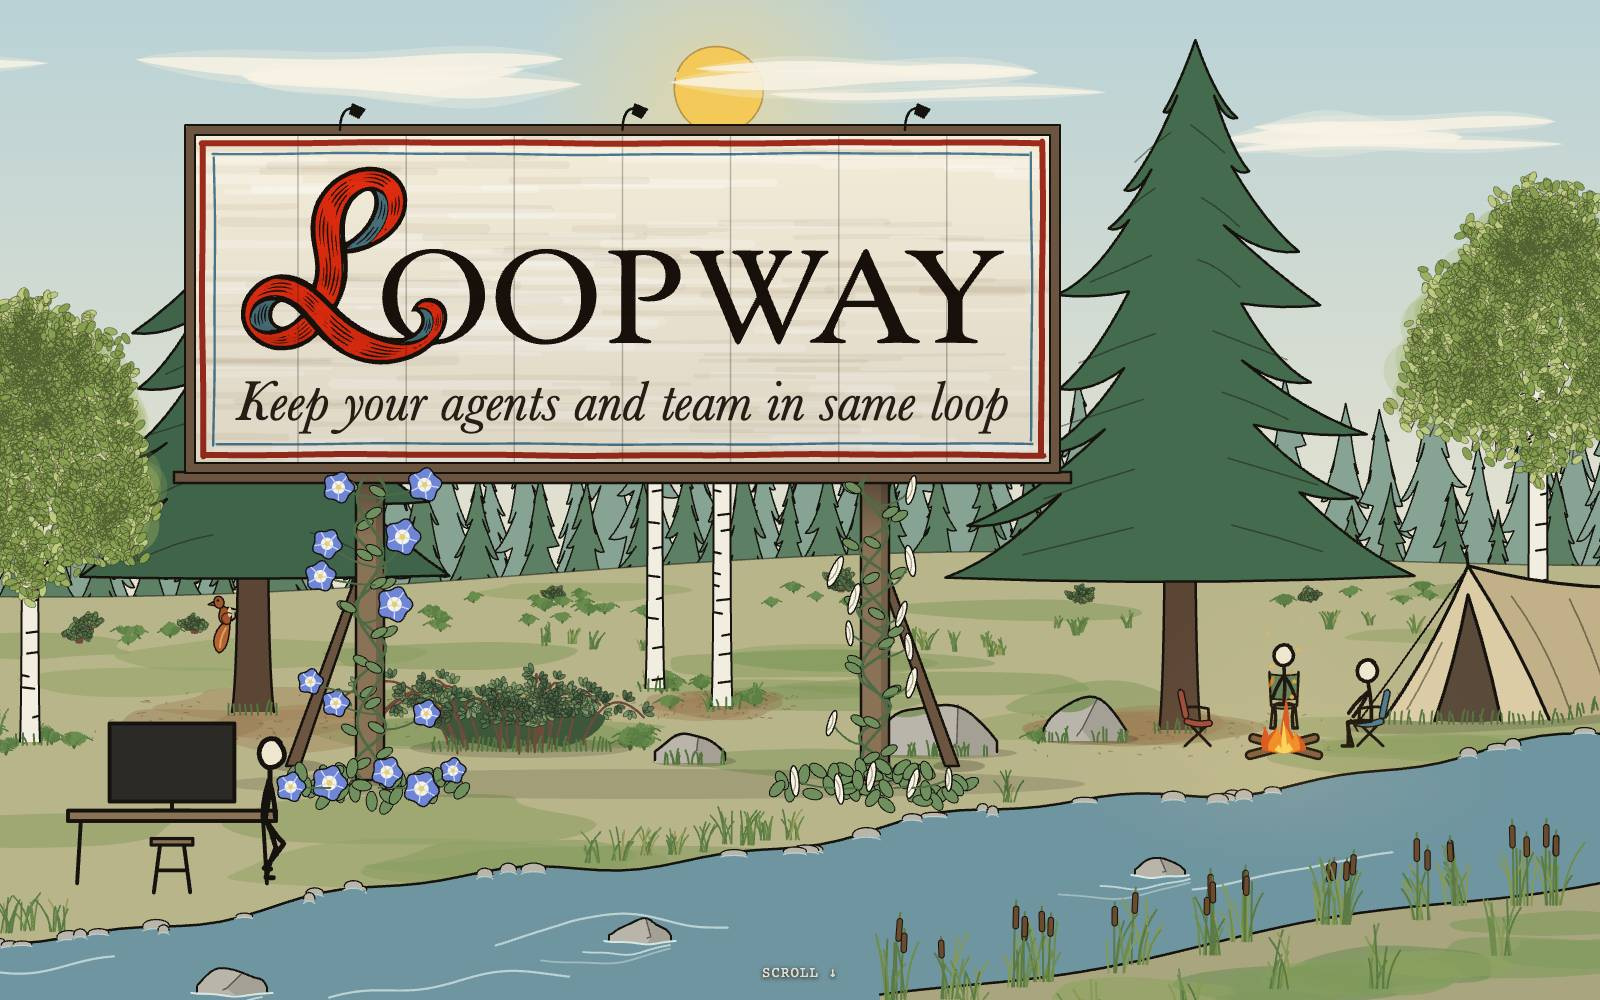
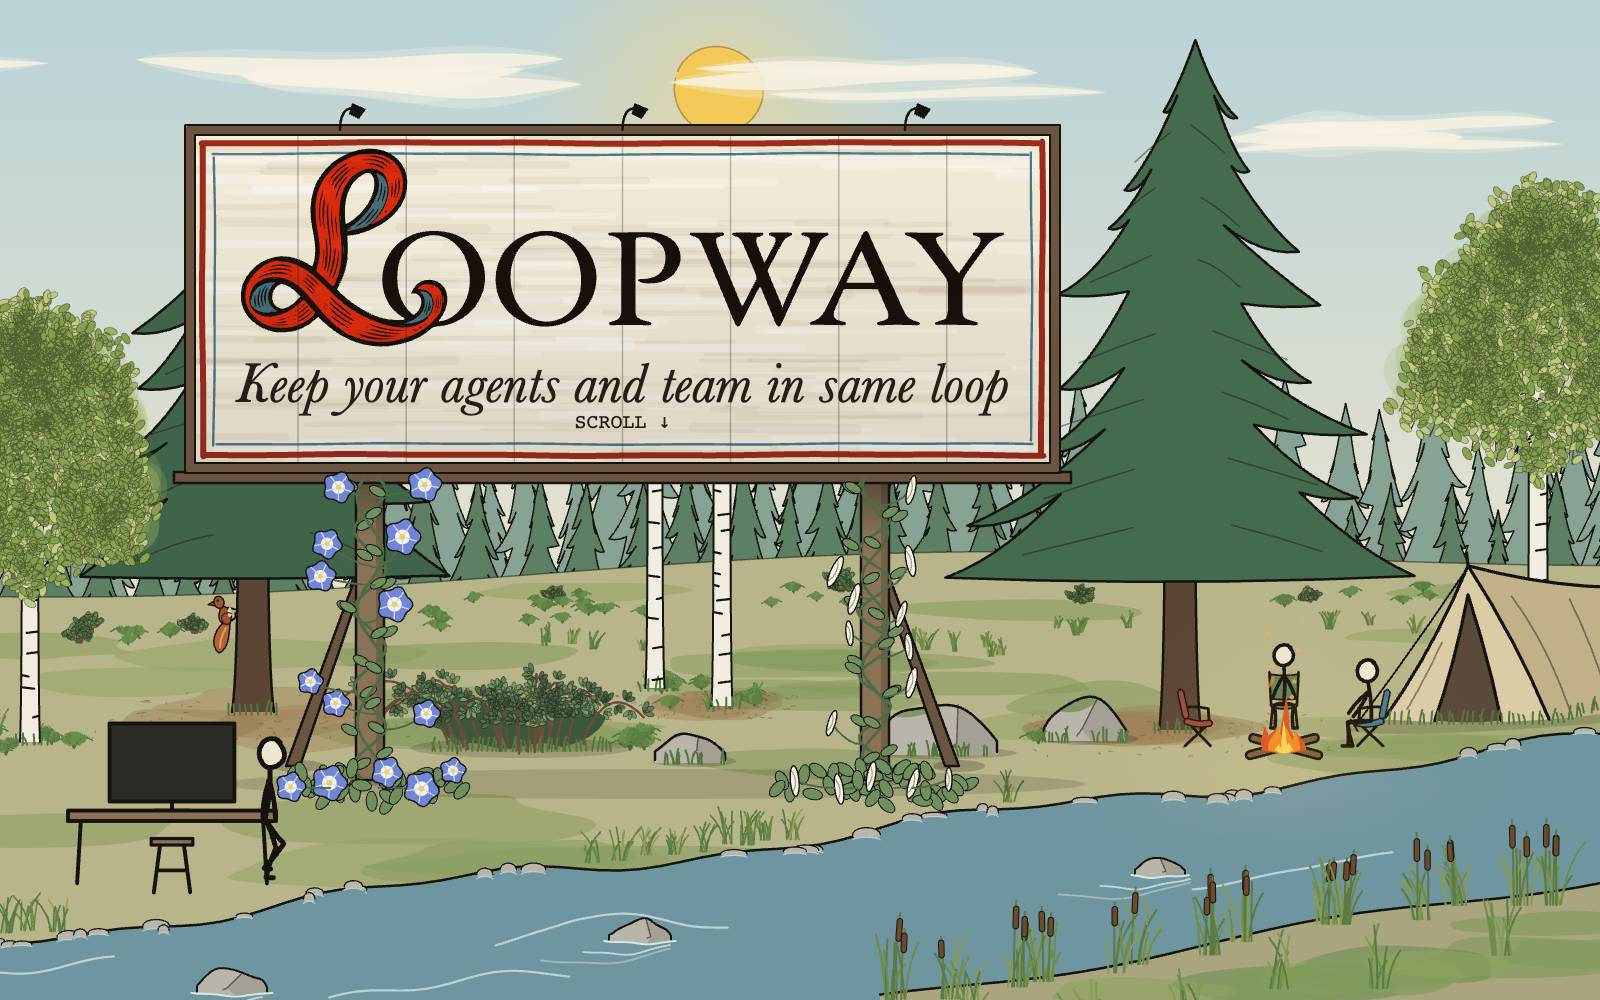
Paint the scroll hint on the sign's face, at the bottom middle

Changed region(s): [[0.125, 0.124, 0.625, 0.434], [0.4688, 0.961, 0.5312, 0.992]]

diff --git a/packages/web/public/index.html b/packages/web/public/index.html
@@ -34,24 +34,13 @@
         clip-path: inset(50%);
         white-space: nowrap;
       }
+      /* The scroll hint is painted on the sign; this is the same control for the keyboard and screen readers. */
       .scroll {
-        position: fixed;
-        left: 50%;
-        bottom: 14px;
-        transform: translateX(-50%);
-        padding: 6px 10px;
-        border: 0;
-        background: none;
-        color: #e4ddc9;
-        text-shadow: 0 1px 4px #16130e;
-        font:
-          14px "Courier Prime",
-          Courier,
-          ui-monospace,
-          monospace;
-        letter-spacing: 0.08em;
-        text-transform: uppercase;
-        cursor: pointer;
+        position: absolute;
+        width: 1px;
+        height: 1px;
+        overflow: hidden;
+        clip-path: inset(50%);
       }
     </style>
     <!-- Craftmill's PostHog, through the shared proxy. It sees a page load and the frame, copy, GitHub and
@@ -1713,7 +1702,7 @@ loopway setup</pre>
           ctx.font = tagline(64);
           const size = (64 * markWidth) / ctx.measureText(line).width;
           const block = markHeight + size * 1.1;
-          const top = (h - block) / 2 - 2;
+          const top = (h - block) / 2 - 20;
           const left = (w - markWidth) / 2;
           ctx.globalCompositeOperation = "multiply";
           if (wordmark.complete && wordmark.naturalWidth) ctx.drawImage(wordmark, left, top, markWidth, markHeight);
@@ -1721,6 +1710,20 @@ loopway setup</pre>
           ctx.textBaseline = "alphabetic";
           ctx.font = tagline(size);
           ctx.fillText(line, left, top + markHeight + size * 0.88);
+          // The scroll hint, at the bottom middle of the sign's face.
+          ctx.font = `20px "Courier Prime", Courier, ui-monospace, monospace`;
+          ctx.textAlign = "center";
+          ctx.fillText("SCROLL \u2193", w / 2, h - 40);
+          ctx.textAlign = "left";
+          HITS = [
+            {
+              kind: "scroll",
+              x0: BOARD.x + w / 2 - 60,
+              y0: BOARD.y + h - 60,
+              x1: BOARD.x + w / 2 + 60,
+              y1: BOARD.y + h - 20,
+            },
+          ];
           ctx.globalCompositeOperation = "source-over";
         } else drawFaceContent(ctx, w, h);
         // The seams between the boards run through the paint.
@@ -3938,7 +3941,7 @@ loopway setup</pre>
 
       // ---- Clicks on the sign: Copy and the two links ----
       const hitAt = (x, y) =>
-        shown > 0 && faceFade() > 0.6 ? HITS.find((h) => x > h.x0 && x < h.x1 && y > h.y0 && y < h.y1) : undefined;
+        faceFade() > 0.6 ? HITS.find((h) => x > h.x0 && x < h.x1 && y > h.y0 && y < h.y1) : undefined;
       // Copy to the clipboard, and say whether it worked.
       async function copy(text) {
         try {
@@ -3956,7 +3959,8 @@ loopway setup</pre>
         }
       }
       async function press(hit) {
-        if (hit.kind === "github") {
+        if (hit.kind === "scroll") step(1);
+        else if (hit.kind === "github") {
           track("github_clicked", { href: `https://github.com/${REPO}` });
           window.open(`https://github.com/${REPO}`, "_blank", "noopener");
         } else if (hit.kind === "bots") location.href = "/bots";

diff --git a/packages/web/test/page.test.ts b/packages/web/test/page.test.ts
@@ -31,6 +31,9 @@ describe("the marketing page", () => {
 
   it("has a frame for each of the five things the sign says, painted on the sign", () => {
     expect(html).toContain('const FRAMES = ["tagline", "description", "install", "get-started", "github"]');
+    // The hint is painted at the bottom middle of the sign, with a real button behind it for the keyboard.
+    expect(html).toContain('ctx.fillText("SCROLL \\u2193", w / 2, h - 40)');
+    expect(html).toContain('kind: "scroll"');
     expect(html).toContain("scroll &darr;");
     expect(html).toContain("Keep your agents and team in same loop");
     // The content is drawn on the board's face, not laid over the page.

diff --git a/docs/developing.md b/docs/developing.md
@@ -57,6 +57,6 @@ Tests fake the source (`test/fake.ts`) for the poller, and fake `fetch` for `Git
 
 `packages/web/public/index.html` is the whole site: the billboard, its picture and its script in one file, with `wordmark.svg` beside it. There is no build and no dependencies. `packages/web/vercel.json` serves `public/`, and `scripts/should-build.mjs` (the `ignoreCommand`) skips deploys when nothing in `packages/web` changed. Verifications for each PR live in `verifications/`.
 
-The billboard fills the window, and the page is five frames that scrolling steps through. Frame 1 is the sign as painted (the large wordmark and the tagline); frames 2 to 5 replace the sign's face with the small wordmark and the description, install and setup, how to get started, and the GitHub link with a small tracker. The words are painted on the canvas like the wordmark, so the lamps and the night light them. Copy and the two links are painted too: `drawFaceContent` leaves a rectangle in `HITS` for each, and a click on the canvas looks there first. The same words are in the page for screen readers (`#words`). Wheel, swipe, arrow, PageUp/PageDown and space keys step one frame; one trackpad flick is one frame (wheel movement adds up, and it is ready again only after a pause). The whole picture is always in view, so on a narrow window the words are small. Copy and the links answer to a click, not a press, so a phone counts a tap and a swipe does not press them.
+The billboard fills the window, and the page is five frames that scrolling steps through. Frame 1 is the sign as painted (the large wordmark and the tagline, and `scroll ↓` at the bottom middle of the face, which steps to the next frame); frames 2 to 5 replace the sign's face with the small wordmark and the description, install and setup, how to get started, and the GitHub link with a small tracker. The words are painted on the canvas like the wordmark, so the lamps and the night light them. Copy and the two links are painted too: `drawFaceContent` leaves a rectangle in `HITS` for each, and a click on the canvas looks there first. The same words are in the page for screen readers (`#words`). Wheel, swipe, arrow, PageUp/PageDown and space keys step one frame; one trackpad flick is one frame (wheel movement adds up, and it is ready again only after a pause). The whole picture is always in view, so on a narrow window the words are small. Copy and the links answer to a click, not a press, so a phone counts a tap and a swipe does not press them.
 
 The install host is the one `loopway.craftmill.dev` in the script (`INSTALL_HOST`); change it there if the site moves. What has been found is kept in `localStorage` (`loopway.found`: `snake`, `bird`, `loops`) and shown on the last frame. PostHog gets `frame_viewed` (`frame`, `name`, `from`), `snake_found` and `bird_found` (the first time only), `install_copied` and `github_clicked`, plus the page view, for a funnel. `?u=` and `?speed=` on the page still freeze and speed up the day.

diff --git a/verifications/525.md b/verifications/525.md
@@ -19,7 +19,7 @@ The page is the billboard, with no iframe: one canvas, and the content is painte
 
 ## Each frame, on the sign
 
-Screenshots are in `verifications/525/`. Desktop: [1](525/desktop-1.jpg), [2](525/desktop-2.jpg), [3](525/desktop-3.jpg), [4](525/desktop-4.jpg), [5](525/desktop-5.jpg). Phone: [1](525/phone-1.jpg), [2](525/phone-2.jpg), [3](525/phone-3.jpg), [4](525/phone-4.jpg), [5](525/phone-5.jpg). Frame 1 is the sign (large wordmark, tagline, `scroll ↓` at the bottom middle of the window). Frames 2 to 5 show the small wordmark as a header and the content on the face, fading in over the old face. At night the lamps and the dark act on the words as on the paint: [install frame at night](525/night-3.jpg). On the phone the picture is letterboxed (the window is taller than the picture), as the billboard always was.
+Screenshots are in `verifications/525/`. Desktop: [1](525/desktop-1.jpg), [2](525/desktop-2.jpg), [3](525/desktop-3.jpg), [4](525/desktop-4.jpg), [5](525/desktop-5.jpg). Phone: [1](525/phone-1.jpg), [2](525/phone-2.jpg), [3](525/phone-3.jpg), [4](525/phone-4.jpg), [5](525/phone-5.jpg). Frame 1 is the sign (large wordmark, tagline, and `SCROLL ↓` painted at the bottom middle of the sign's face). Frames 2 to 5 show the small wordmark as a header and the content on the face, fading in over the old face. At night the lamps and the dark act on the words as on the paint: [install frame at night](525/night-3.jpg). On the phone the picture is letterboxed (the window is taller than the picture), as the billboard always was.
 
 ## Live, in a browser
 
@@ -35,6 +35,14 @@ bush, tree -> snake_found, bird_found (and the frame_viewed events for each step
 phone: swipe up from Copy -> frame: get-started | events: []     (the swipe stepped; it did not press Copy)
 phone: tap Copy -> clipboard: "curl -fsSL https://loopway.craftmill.dev/install.sh | sh\nloopway setup" | events: install_copied {"frame":3}
 phone: tap GitHub -> new tab: https://github.com/craftmilldev/loopway | github_clicked {"href":"https://github.com/craftmilldev/loopway"}
+```
+
+The scroll hint, a later run (headless Chrome, desktop with a mouse click and the phone with a touch tap, on the painted `SCROLL ↓`; frame 1 screenshots replaced):
+
+```
+desktop painted scroll hint pressed -> frame: description | events: ["frame_viewed"]
+phone   painted scroll hint pressed -> frame: description | events: ["frame_viewed"]
+the old button at the foot of the window is gone; a real one stays for the keyboard, visually hidden
 ```
 
 Earlier runs on this page (before the wheel, tap and camera changes), which the changes do not touch:
